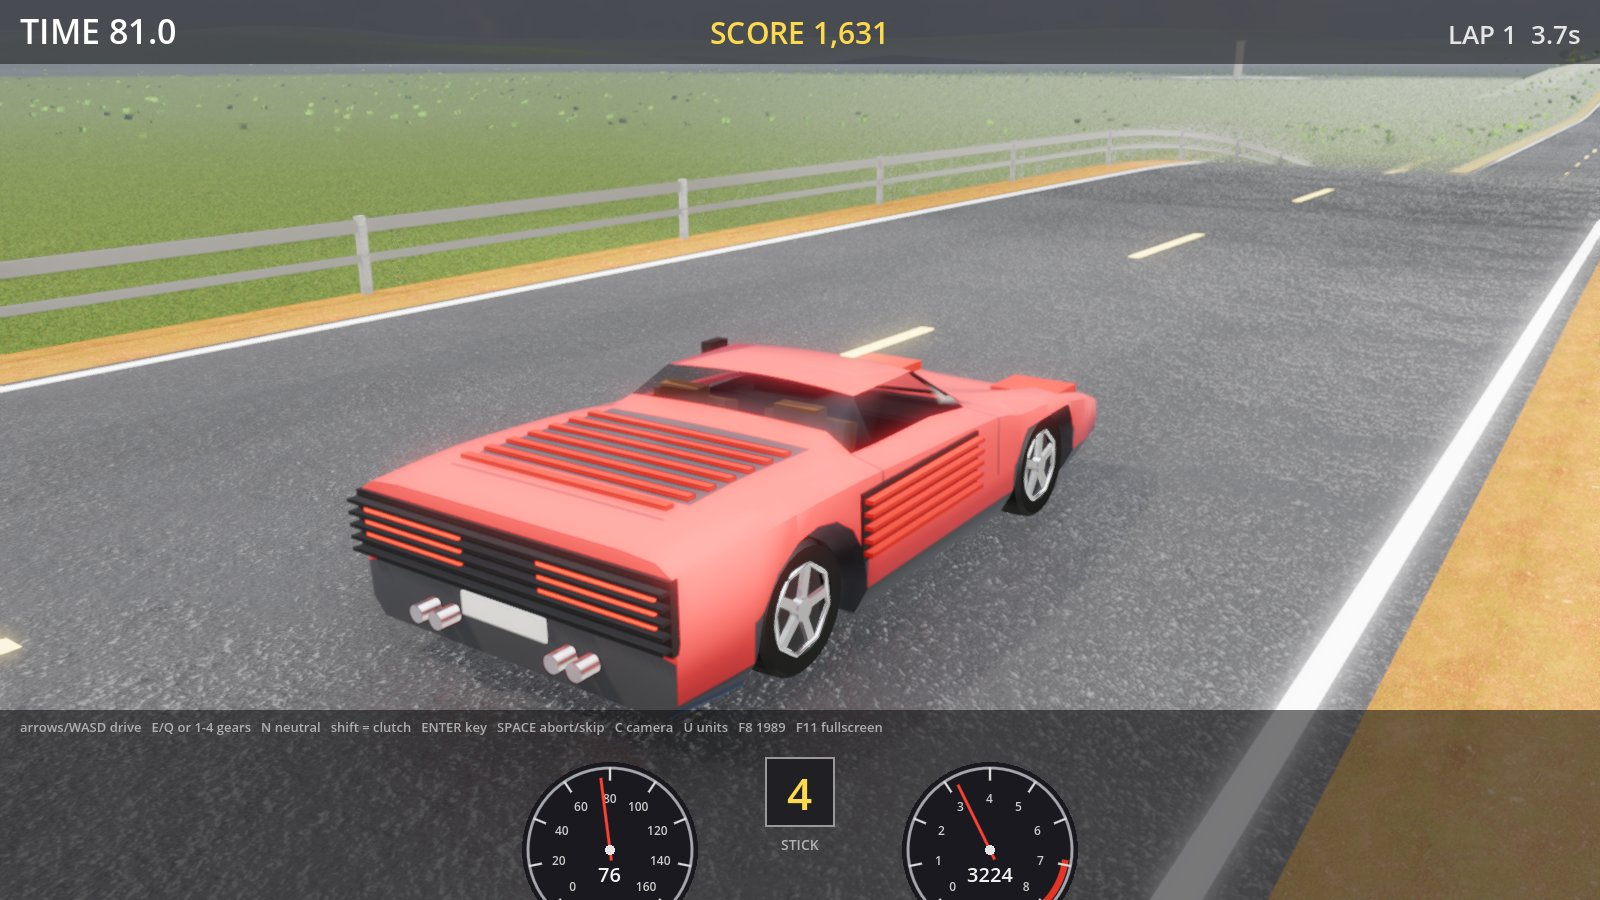
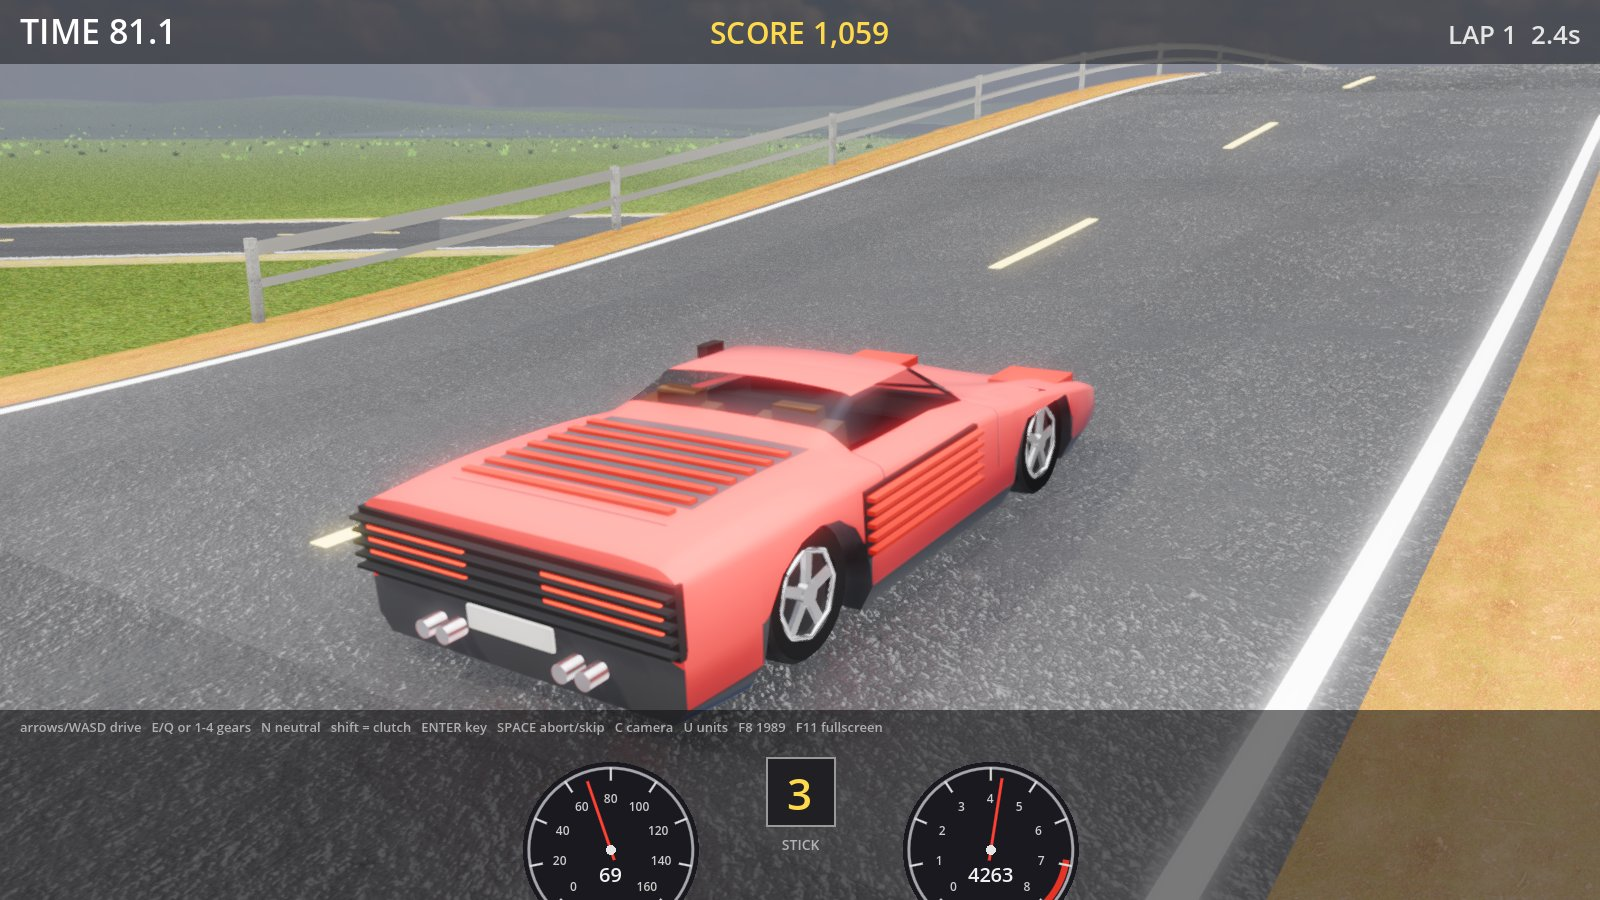
docs: rounded body lines, the reflection probe that was tried, pictures of the cars for 0.5

diff --git a/docs/design.md b/docs/design.md
@@ -83,7 +83,9 @@ force-feedback wheel later (the FFB loop of the 1989 cabinet ran at 4 ms, the ca
 - Cars: a loft through cross-sections built from a `BodyStyle`'s profile curves keyed along the body,
   monotone-cubic between keys; wheel arches cut into the loft; star-rimmed wheels that steer and spin.
   Quads are wound by the ring direction (tangent turned clockwise = outward), normals are smoothed below a
-  60 degree crease angle. Two styles: the flat-twelve (blade nose, lamp lids, dipped bonnet, small cabin,
+  60 degree crease angle. The three character lines of each section (shoulder, bonnet edge / greenhouse
+  base, crest) are rounded with 35-50 mm fillets in four sub-strips, so highlights roll over them like
+  pressed steel; glass, trim and seams are still decided on the twenty-point design outline. Two styles: the flat-twelve (blade nose, lamp lids, dipped bonnet, small cabin,
   strakes, louvres, slatted tail, A-pillar mirror) and the V8 (low wide nose, long screen, glass engine
   cover, side scoops, round lamps, four tips, lip). Panel shut lines are dark strips of the loft itself (a
   pair of stations 14 mm apart at each seam); a plate, indicators, door handles, brake discs with red
@@ -150,5 +152,7 @@ pushes, creates the GitHub release, updates the Scoop bucket and submits the win
    tune.
 4. More circuits built with the same turtle API; the hidden skid pad could grow cones and a timer.
 5. Scanned models instead of lofts and primitives: a car body with real curvature (the loft has twenty
-   points per section) and buildings with real geometry would be the next step past textured primitives;
-   a reflection probe on the car is worth measuring for the paint.
+   design points per section, three of them filleted) and buildings with real geometry would be the next
+   step past textured primitives. A reflection probe riding with the car was tried in 0.5 and left out:
+   with SDFGI and screen-space reflections already on the paint the difference was hard to see, while a
+   real-time probe renders the scene six more times a frame.

diff --git a/README.md b/README.md
@@ -119,7 +119,7 @@ best lap's ghost out of the picture.
 - `game/` — the Godot view: world generated from the track (terrain mesh from the ground field with a ring
   of hills, photo-textured road with worn wheel tracks, gravel shoulders, bridges with guardrails, pad,
   grass tufts, trees from leaf cards, fields, textured buildings and signs, the train), lofted car bodies
-  with panel seams and a furnished cabin behind tinted glass (dashboard, a steering wheel that turns with
+  with rounded character lines, panel seams and a furnished cabin behind tinted glass (dashboard, a steering wheel that turns with
   the steering, seats, slim A-pillars), a driver's-eye cockpit camera and a chase camera, HUD with a
   scrolling cluster, engine, tyre (squeal, howl, screech, gravel) and V8 overrun-pop sounds from
   recordings over synthesised road roar, wind and bump thumps, a synthesised engine and squeal for 1989 mode,
